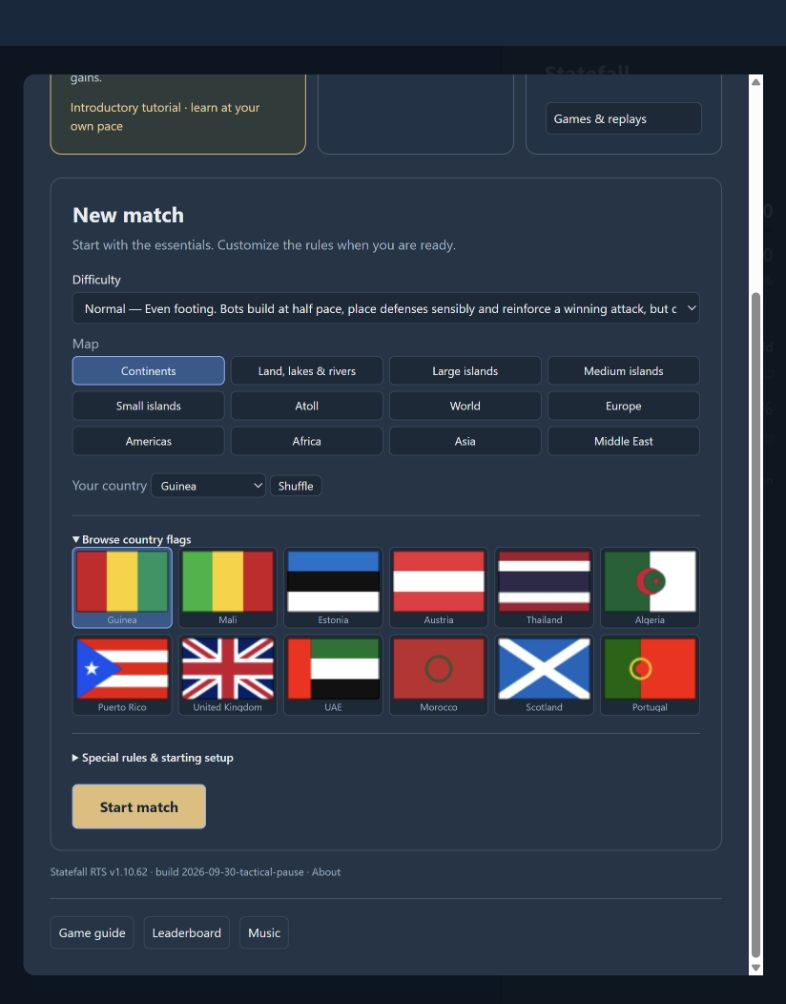
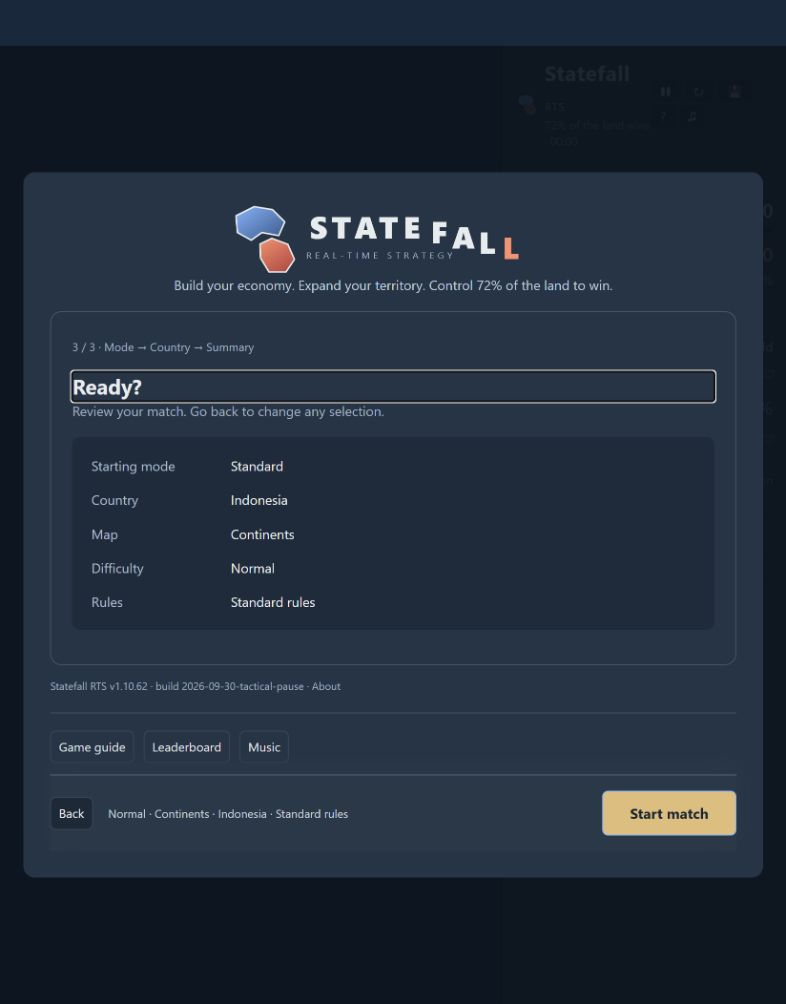
Add guided match setup and immediate random-match entry

diff --git a/prototypes/tutorial-campaign/README.md b/prototypes/tutorial-campaign/README.md
@@ -17,3 +17,4 @@ Construction is gated by lesson step: the city menu action is accepted only duri
 
 The opening now includes a guided attack on a bordering neutral country. The simulation runs at normal speed and pauses after capture; follow-up steps highlight territory, Land held, Gold, Troops and Income using actual before/after values. Gold explanation separates the actual plunder event from net gold change. A depleted attack returns to the order step for reinforcements. Attacks outside the guided step are blocked until Free practice.
 Opening-card proposal: open /?browserTest=1&art=classic&opening=1. This review-only layout reuses native controls and links Learn to play to the local lesson. Difficulty/map/country remain visible; flag browsing, special rules, teams, seed and advanced setup are grouped below. Production launch still requires moving tutorial hooks out of the development bridge, isolating training scores/saves, updating About/version, and completing the exact-artifact release and production acceptance gates.
+The revised opening uses a menu instead of a match form: Start tutorial, Games & replays (Continue game only when an account save is available), New match, and Random match. New match walks through Mode → Country → Summary/Ready, preserving choices on Back. Map/difficulty and advanced rules remain available in the Mode step. Random match clears custom rules, randomly selects among available maps and difficulties, generates a new seed, and starts immediately with the selected country. Opening regression coverage checks the wizard, exclusive mode selector, reset, compact layout, random startup and saved-game error recovery; account continuation itself still needs hosted acceptance.
